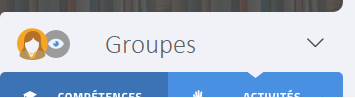
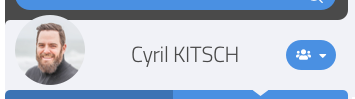
Update navigation panel screenshorts to new design + misc changes to texts

diff --git a/_designs/00.Global/04.Notification/00.Global_04.Notification_a.Notification parameter.md b/_designs/00.Global/04.Notification/00.Global_04.Notification_a.Notification parameter.md
@@ -7,7 +7,7 @@ image: 00.Global_04.Notification_a.Notification parameters.png
 
 First, we list for each type of notification, how the user should be notified: by email, by SMS, on the desktop, and how often. See the list above.
 
-Then, we list all the discussion the user currently follows. Users have the option, when they are looking at a discussion, to mark it as “to follow”. The discussions they created are automatically marked as “to follow”, and can’t be unfollowed other than by closing them.
+Then, we list all the discussion threads the user currently follows. Users have the option, when they are looking at a discussion thread, to mark it as “to follow”. The discussions they created are automatically marked as “to follow”, and can’t be unfollowed other than by closing them.
 
 *[**TODO**: add list of groups that are being followed.]*
 *[To decide: where do we indicate that we start following a group?]*

diff --git a/_designs/00.Global/03.Search/00.Global_03.Search.md b/_designs/00.Global/03.Search/00.Global_03.Search.md
@@ -6,10 +6,11 @@ image: 00.Global_03.Search.png
 
 Entering a string in the search area and validating displays the results.
 
-The results for each type are displayed in the corresponding tab. Clicking on the arrow next to the top line will show the results within groups.
+The results for each type (skills/activities/groups) are displayed in the corresponding tab. For each tab, the number of search results is displayed in a small circle.
 
 The user may click on any of these items, to load the corresponding page.
 
-When results are displayed, an X appears on the right of the search field. Clicking on it cancels the search.
+When results are displayed, the search bar changes color (orange), and an X appears on the right of the search field. Clicking on it cancels the search.
 
-A button on the right gives access to advanced search.
+A button on the right of the search bar gives access to advanced search.
+

diff --git a/_designs/00.Global/00.General structure/00.General structure_02.Collapsed panel and header.md b/_designs/00.Global/00.General structure/00.General structure_02.Collapsed panel and header.md
@@ -17,7 +17,7 @@ The icon remains visible, and can be clicked on to re-open the navigation panel.
 
 If there is a group currently selected, so that that group is being observed, then a row dedicated to it is added, so that it’s clear that everything is an observation of that group. On the very right, left and right arrows make it possible to go to the previous or next sibling within the same parent group.
 
-On the right side of the row containing the item’s name, the login of the logged user is displayed (if the navigation panel is opened, it’s visible in that panel)
+On the right side of the row containing the item’s name, the login of the logged user is displayed (if the navigation panel is opened, it is visible in that panel instead)
 
 The header may also be collapsed, so that the content of the current tab takes almost all of the screen. In that case, only one row is displayed.
 

diff --git a/_designs/00.Global/00.General structure/00.General structure_04.Shared elements.md b/_designs/00.Global/00.General structure/00.General structure_04.Shared elements.md
@@ -9,6 +9,6 @@ image: ['00.General structure_04.Shared elements_a.png',
 
 On the right side, we display two navigation arrows, to navigate to the previous / next sibling.
 
-If we’re on the first child of a parent item, the left arrow becomes an “up” arrow. Similarly, if  we’re on the last child of a parent item, the right arrow becomes an “up”arrow. If there is only one child, we only display one up arrow.
+If we’re on the first child of a parent item, the left arrow becomes an “up” arrow. Similarly, if  we’re on the last child of a parent item, the right arrow becomes an “up” arrow. If there is only one child, we only display one up arrow.
 
 On the left, an “edit” icon is visible if the user has edit access to this item. Clicking on it switches to the edit mode of this item

diff --git a/_designs/00.Global/05.Language select/00.Global_05.Language select.md b/_designs/00.Global/05.Language select/00.Global_05.Language select.md
@@ -13,3 +13,8 @@ Dans le login module, cliquer sur l'onglet Vérifications, renseigner son adress
 
 ## <span class="color-thread" style="background-color: #ffeeee"></span> Se connecter sur la plateforme
 Quelle que soit la page, cliquer sur le bouton "connexion" dans la colonne de gauche de la page. Le login module s'ouvre dans une popup. Suivre les étapes de connexion proposées dans le login module.
+
+
+When the user is not logged in, the current language of the platform is clearly displayed. By default, it uses the language from the browser if it is available. Otherwise, it uses the default language for that platform.
+
+When the user is logged in, the language selection is done from the user's profile page.

diff --git a/_designs/00.Global/00.General structure/00.General structure_05.Columns configuration.md b/_designs/00.Global/00.General structure/00.General structure_05.Columns configuration.md
@@ -5,4 +5,6 @@ ref: 00.General structure_05.Columns configuration
 image: 00.General structure_05.Columns configuration.png
 ---
 
-When a table is presented with different columns,settings may be available to change what columns are displayed. This is how it will look (when you click on the gears icon on the left).
+When a table is presented with different columns, settings may be available to change what columns are displayed.
+
+Here we show several proposals of how it may look, when people click on the "customize" element on the left.

diff --git a/_designs/00.Global/04.Notification/00.Global_04.Notification.md b/_designs/00.Global/04.Notification/00.Global_04.Notification.md
@@ -11,4 +11,6 @@ Requests or invitations to group are listed until they are accepted or rejected,
 
 Accepted requests/invitations and notifications about discussions are displayed for X days, but only counted in the number of recent notifications until they are viewed on this page for at least X seconds.
 
+Clicking on the eye icon on the right of a given row brings the user to the corresponding page.
+
 [To decide: Do we let users manually mark notifications as viewed?]
